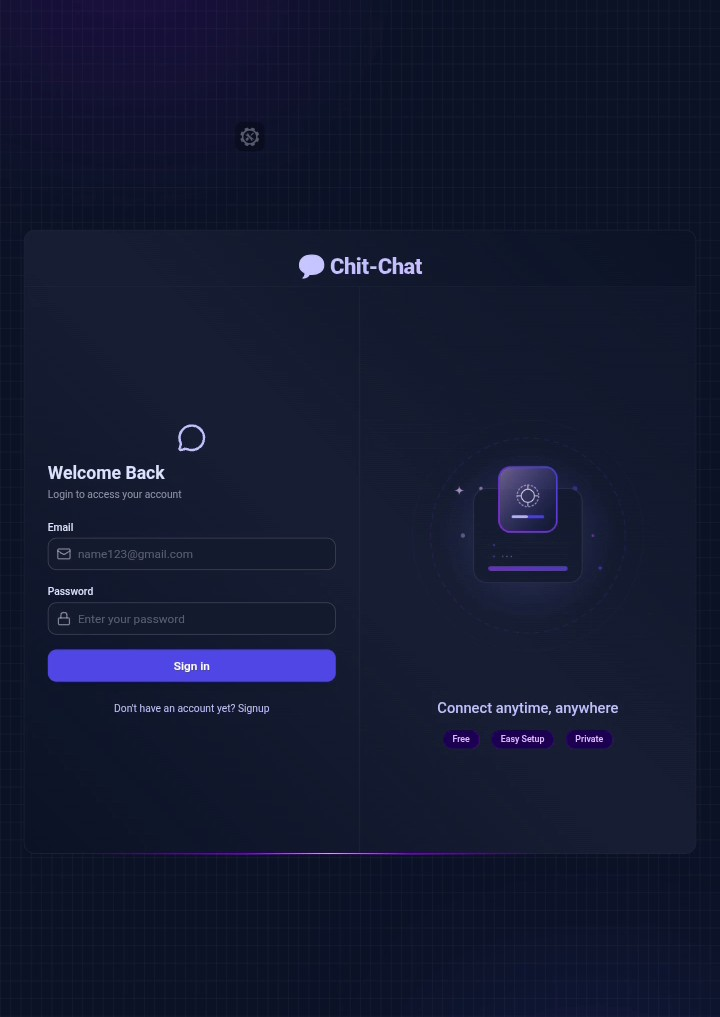
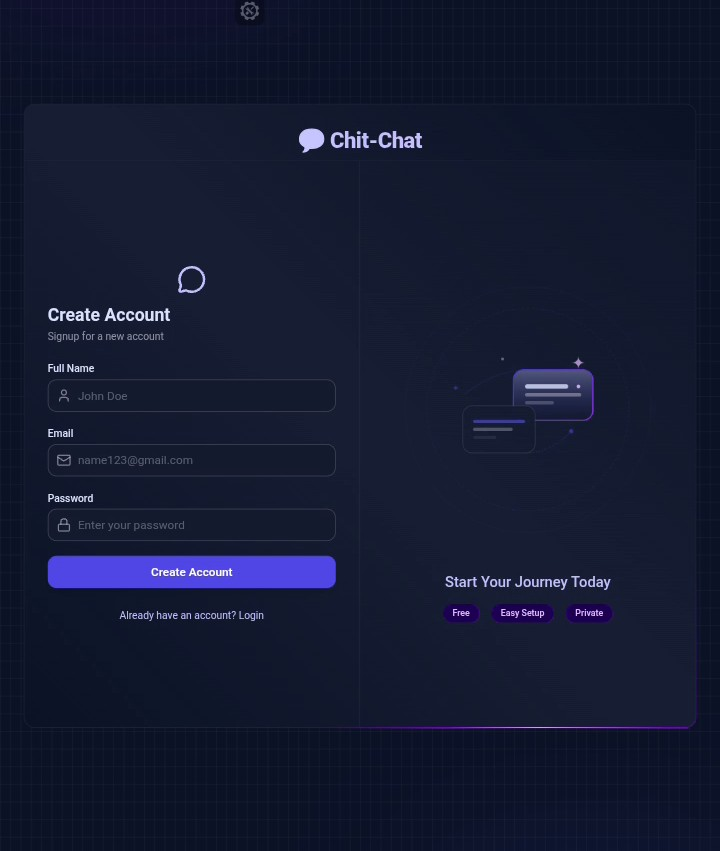
Finally Again

diff --git a/frontend/src/components/ChatContainer.jsx b/frontend/src/components/ChatContainer.jsx
@@ -36,7 +36,6 @@ function ChatContainer() {
     <>
       <ChatHeader />
 
-      {/* MESSAGES AREA */}  
       <div className="flex-1 w-full max-w-full min-w-0 px-3 md:px-6 overflow-y-auto py-4 md:py-8">  
           
         {messages.length > 0 && !isMessagesLoading ? (  
@@ -49,12 +48,11 @@ function ChatContainer() {
                 className={`chat ${msg.senderId === authUser._id ? "chat-end" : "chat-start"} w-full`}  
               >  
                 <div  
-
-                  className={`chat-bubble relative max-w-[75%] break-words whitespace-pre-wrap rounded-2xl px-4 py-2.5 shadow-md ${  
-                    msg.senderId === authUser._id  
-                      ? "bg-[#4f46e5] text-white"  
-                      : "bg-[#131b2e] text-[#dae2fd] border border-[#464555]/20"  
-                  }`}  
+                  className={`chat-bubble relative max-w-[75%] break-words whitespace-pre-wrap px-4 py-2.5 shadow-md 
+                  ${msg.senderId === authUser._id 
+                    ? "bg-[#4f46e5] text-white rounded-br-none rounded-2xl" 
+                    : "bg-[#1e293b] text-[#dae2fd] border border-[#464555]/40 rounded-bl-none rounded-2xl"
+                  }`}
                 >  
                   {msg.image && (  
                     <img  
@@ -67,7 +65,7 @@ function ChatContainer() {
                   {msg.text && <p className="break-words leading-relaxed text-[15px]">{msg.text}</p>}  
 
                   <p className={`text-[10px] mt-1 text-right block ${
-                    msg.senderId === authUser._id ? "text-indigo-200/80" : "text-[#c7c4d8]/50"
+                    msg.senderId === authUser._id ? "text-indigo-200/80" : "text-[#c7c4d8]/60"
                   }`}>  
                     {new Date(msg.createdAt).toLocaleTimeString(undefined, {  
                       hour: "2-digit",  
